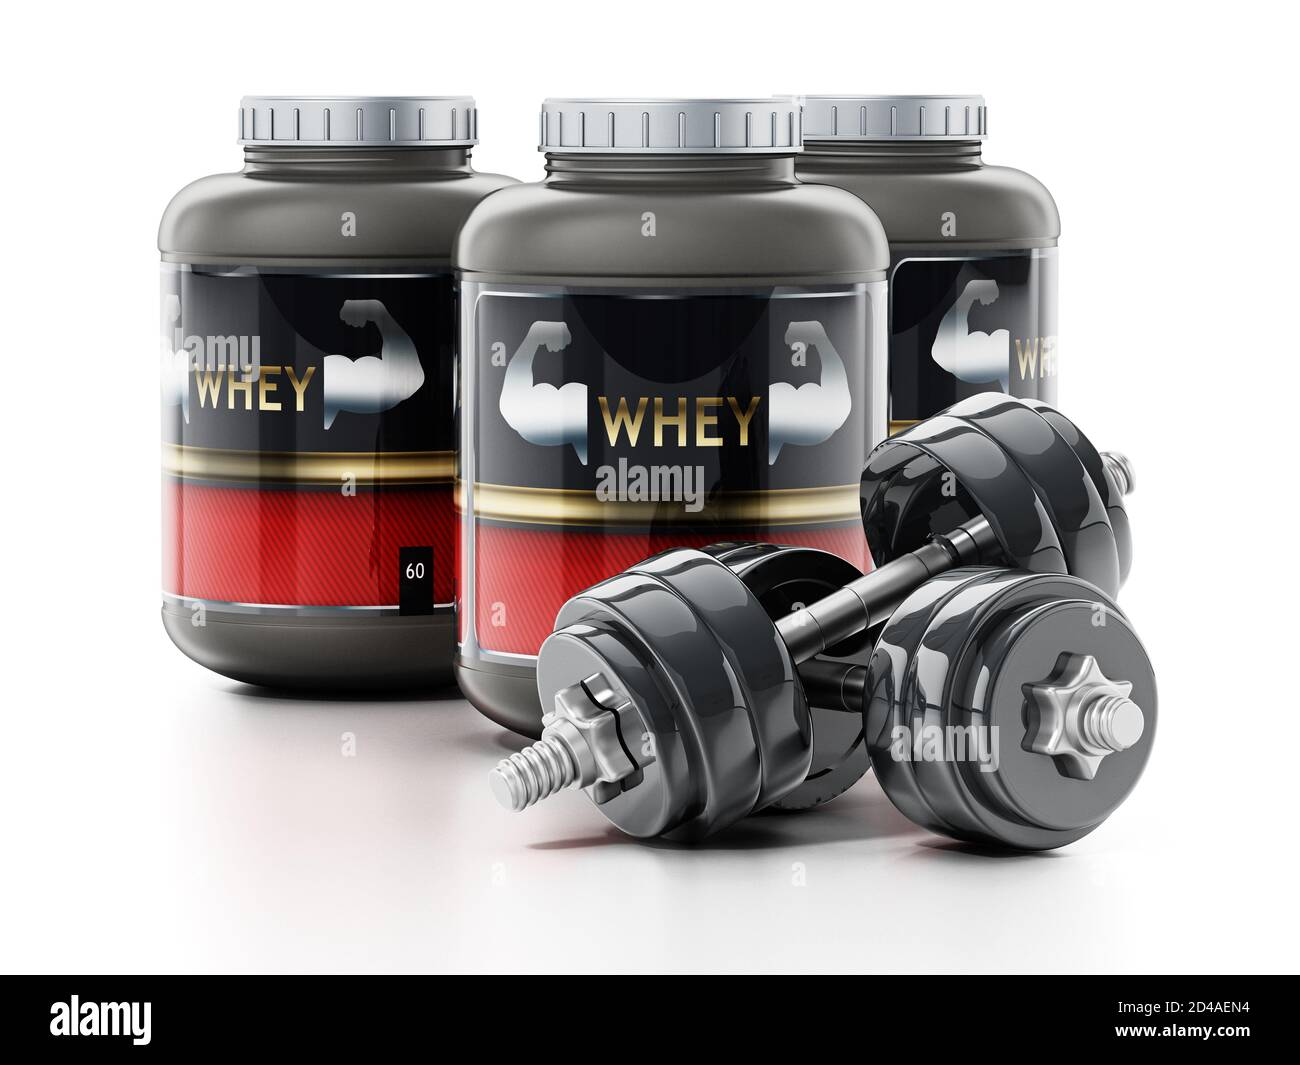
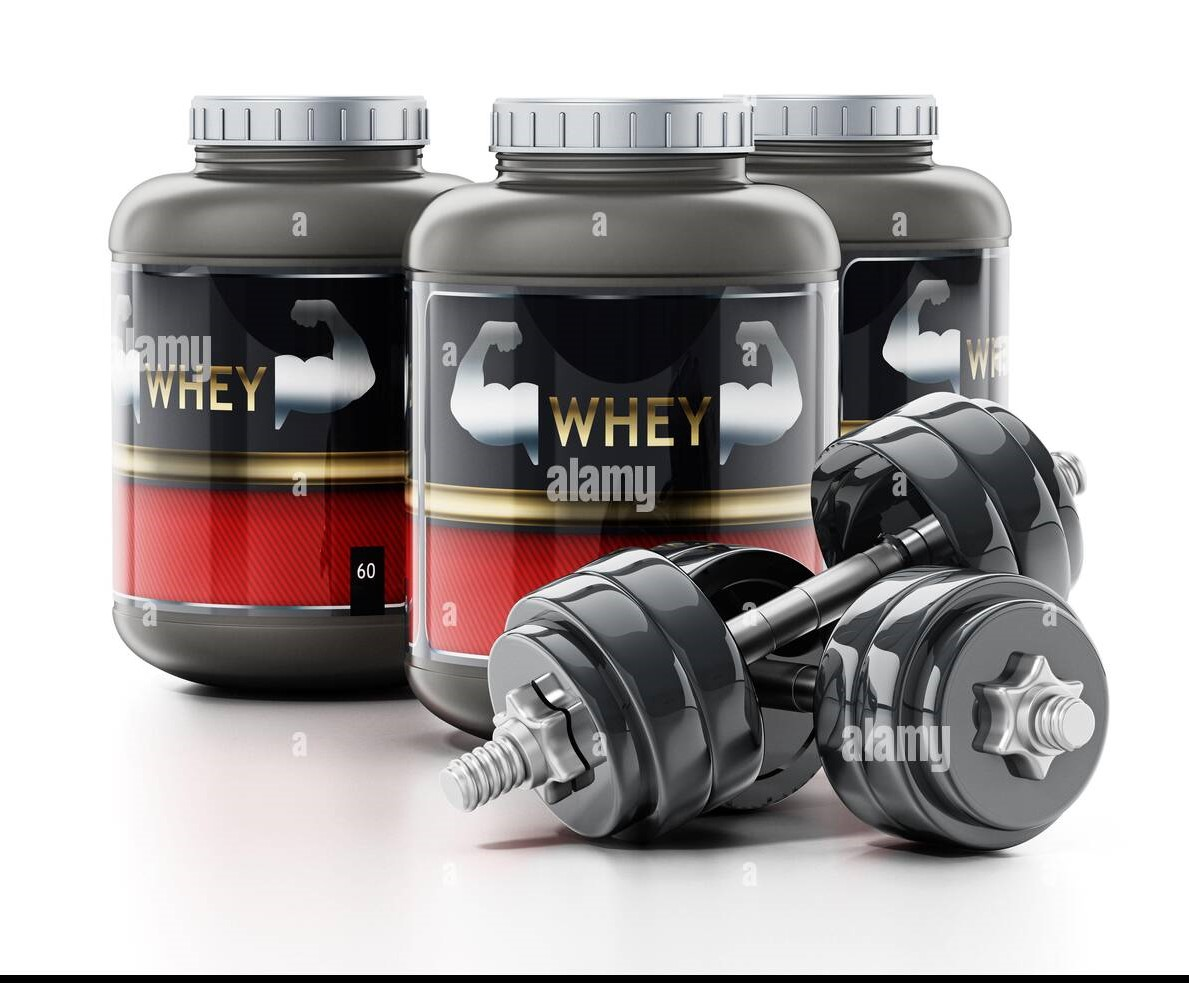
developing products list

diff --git a/Home.html b/Home.html
@@ -77,20 +77,26 @@
             alt="Clothes"
           />
           <h2>Clothes</h2>
-          <button>Purchase now <i class="ri-arrow-right-line"></i></button>
+          <button class="home-btn">
+            <a href="./products.html" target="_blank">Purchase now </a
+            ><i class="ri-arrow-right-line"></i>
+          </button>
         </div>
         <div class="store-item">
-          <img
-            src="https://c8.alamy.com/comp/2D4AEN4/whey-protein-powders-and-dumbells-isolated-on-white-background-3d-illustration-2D4AEN4.jpg"
-            alt="Supplements"
-          />
+          <img src="./img/supplement.jpg" alt="Supplements" />
           <h2>Supplements</h2>
-          <button>Purchase now <i class="ri-arrow-right-line"></i></button>
+          <button class="home-btn">
+            <a href="./products.html" target="_blank">Purchase now </a>
+            <i class="ri-arrow-right-line"></i>
+          </button>
         </div>
         <div class="store-item">
           <img src="./img/welcome-equi.jpg" alt="Equipments" />
           <h2>Equipments</h2>
-          <button>Purchase now <i class="ri-arrow-right-line"></i></button>
+          <button class="home-btn">
+            <a href="./products.html" target="_blank">Purchase now </a>
+            <i class="ri-arrow-right-line"></i>
+          </button>
         </div>
       </div>
     </section>
@@ -142,61 +148,6 @@
         <p>&copy; 2024 GymX | All Rights Reserved</p>
       </div>
     </footer>
-    <script>
-      ScrollReveal().reveal(".section", { delay: 700 });
-      // Create navbar elements
-      const nav = document.createElement("nav");
-      nav.classList.add("nav_main");
-
-      const navLink = document.createElement("a");
-      navLink.href = "Home.html";
-      const navLogo = document.createElement("img");
-      navLogo.src = "./img/logo-nav.png";
-      navLogo.alt = "";
-      navLink.appendChild(navLogo);
-      navLink.appendChild(document.createTextNode("GymX"));
-
-      const navMenu = document.createElement("div");
-      navMenu.classList.add("nav_menu");
-
-      const navList = document.createElement("ul");
-      navList.classList.add("nav_list");
-
-      const navItems = [
-        { href: "#", text: "Home" },
-        { href: "#aboutUS", text: "About Us" },
-        { href: "#Store", text: "Store" },
-        { href: "#contactUs", text: "Contact Us" },
-      ];
-
-      navItems.forEach((item) => {
-        const li = document.createElement("li");
-        li.classList.add("nav_item");
-        const a = document.createElement("a");
-        a.href = item.href;
-        a.textContent = item.text;
-        li.appendChild(a);
-        navList.appendChild(li);
-      });
-
-      const navButton = document.createElement("button");
-      navButton.type = "button";
-      navButton.classList.add("nav_button");
-      const navButtonLink = document.createElement("a");
-      navButtonLink.href = "./Login.html";
-      navButtonLink.target = "_blank";
-      navButtonLink.textContent = "Login";
-      navButton.appendChild(navButtonLink);
-
-      // Assemble navbar
-      navMenu.appendChild(navList);
-      navMenu.appendChild(navButton);
-
-      nav.appendChild(navLink);
-      nav.appendChild(navMenu);
-
-      // Append to body
-      document.body.prepend(nav);
-    </script>
+    <script src="./script/nav.js"></script>
   </body>
 </html>

diff --git a/products.html b/products.html
@@ -1,0 +1,49 @@
+<!DOCTYPE html>
+<html lang="en">
+  <head>
+    <meta charset="UTF-8" />
+    <meta name="viewport" content="width=device-width, initial-scale=1.0" />
+    <title>Products - gymX</title>
+    <link rel="icon" type="image/x-icon" href="./img/favicon.png" />
+    <link rel="stylesheet" href="./CSS/Products.css" />
+    <script src="https://unpkg.com/scrollreveal"></script>
+  </head>
+  <body>
+    <div id="productsContainer"></div>
+    <script src="./script/nav.js"></script>
+    <script>
+      const productsContainer = document.getElementById("productsContainer");
+
+      const productsList = [
+        { clothes: "shorts", rating: "5 *", desciption: "this is short" },
+        { clothes: "shorts", rating: "5 *", desciption: "this is short" },
+        { clothes: "shorts", rating: "5 *", desciption: "this is short" },
+        { clothes: "shorts", rating: "5 *", desciption: "this is short" },
+        { clothes: "shorts", rating: "5 *", desciption: "this is short" },
+        { clothes: "shorts", rating: "5 *", desciption: "this is short" },
+        { clothes: "shorts", rating: "5 *", desciption: "this is short" },
+        { clothes: "shorts", rating: "5 *", desciption: "this is short" },
+      ];
+
+      productsList.forEach((product) => {
+        const productElement = document.createElement("div");
+        productElement.setAttribute("class", "productDiv");
+
+        const productHeading = document.createElement("h2");
+        productHeading.innerHTML = product.clothes;
+        productElement.append(productHeading);
+
+        const pDescription = document.createElement("p");
+        pDescription.innerHTML = product.desciption;
+        productElement.append(pDescription);
+
+        const ratingbtn = document.createElement("button");
+        ratingbtn.setAttribute("class", "rating-btn");
+        ratingbtn.innerHTML = product.rating;
+        productElement.append(ratingbtn);
+
+        productsContainer.append(productElement);
+      });
+    </script>
+  </body>
+</html>

diff --git a/CSS/Products.css b/CSS/Products.css
@@ -1,0 +1,102 @@
+* {
+    padding: 0px;
+    margin: 0px;
+}
+body {
+    background-color: hsl(180, 12%, 8%);
+    color: hsl(180, 4%, 72%);
+    font-family: Arial, sans-serif;
+}
+.nav_main {
+    height: 60px;
+    padding: 10px;
+    /* border: 2px solid red; */
+    display: flex;
+    align-items: center;
+    justify-content: space-between;
+}
+
+.nav_main a img {
+    width: 25px;
+    margin-left: 50px;
+}
+
+.nav_main a {
+    color: hsl(180, 4%, 72%);
+    font-weight: bolder;
+    text-decoration: none;
+    font-size: 19px;
+}
+
+.nav_menu {
+    display: flex;
+    width: 700px;
+    justify-content: space-around;
+    margin-right: 50px;
+}
+
+.nav_menu ul {
+    display: flex;
+    justify-content: center;
+    align-items: center;
+    list-style: none;
+
+}
+
+.nav_menu ul li {
+    margin: 0 30px;
+}
+
+.nav_menu ul li a:hover {
+    color: hsl(79, 63%, 50%);
+}
+
+.nav_button {
+    padding: 10px 30px;
+    background-color: hsl(79, 63%, 50%);
+    width: 120px;
+    border-radius: 10px;
+}
+
+.nav_button a {
+    color: black;
+}
+
+.nav_button:hover {
+    background-color: hsl(79, 44%, 59%);
+    cursor: pointer;
+    transform: scale(1.05);
+}
+#productsContainer{
+    display: flex;
+    justify-content: center;
+    align-items: center;
+    flex-wrap: wrap;
+    padding: 10px;
+    max-width: 90%;
+    margin: 0px auto;
+}
+.productDiv {
+    width: 250px;
+    height: 400px;
+    margin: 20px;
+    transition: transform 0.3s;
+    background-color:hsl(180, 12%, 20%);
+    display: flex;
+    flex-direction: column;
+    /* justify-content: center; */
+    align-items: center;
+    border-radius: 10px;
+}
+
+.productDiv:hover {
+    transform: scale(1.08);
+    cursor: pointer;
+    border: 2px solid wheat;
+}
+.rating-btn{
+    padding: 2px;
+    background-color: green;
+    color: white;
+    width: 50px;
+}

diff --git a/script/nav.js b/script/nav.js
@@ -1,0 +1,54 @@
+ScrollReveal().reveal(".section", { delay: 700 });
+// Create navbar elements
+const nav = document.createElement("nav");
+nav.classList.add("nav_main");
+
+const navLink = document.createElement("a");
+navLink.href = "Home.html";
+const navLogo = document.createElement("img");
+navLogo.src = "./img/logo-nav.png";
+navLogo.alt = "";
+navLink.appendChild(navLogo);
+navLink.appendChild(document.createTextNode("GymX"));
+
+const navMenu = document.createElement("div");
+navMenu.classList.add("nav_menu");
+
+const navList = document.createElement("ul");
+navList.classList.add("nav_list");
+
+const navItems = [
+  { href: "#", text: "Home" },
+  { href: "#aboutUS", text: "About Us" },
+  { href: "#Store", text: "Store" },
+  { href: "#contactUs", text: "Contact Us" },
+];
+
+navItems.forEach((item) => {
+  const li = document.createElement("li");
+  li.classList.add("nav_item");
+  const a = document.createElement("a");
+  a.href = item.href;
+  a.textContent = item.text;
+  li.appendChild(a);
+  navList.appendChild(li);
+});
+
+const navButton = document.createElement("button");
+navButton.type = "button";
+navButton.classList.add("nav_button");
+const navButtonLink = document.createElement("a");
+navButtonLink.href = "./Login.html";
+navButtonLink.target = "_blank";
+navButtonLink.textContent = "Login";
+navButton.appendChild(navButtonLink);
+
+// Assemble navbar
+navMenu.appendChild(navList);
+navMenu.appendChild(navButton);
+
+nav.appendChild(navLink);
+nav.appendChild(navMenu);
+
+// Append to body
+document.body.prepend(nav);

diff --git a/Login.html b/Login.html
@@ -7,11 +7,24 @@
     <link rel="icon" type="image/x-icon" href="./img/favicon.png" />
     <link rel="stylesheet" href="./CSS/Login.css" />
   </head>
+  <style>
+    .errorNode1 {
+      margin-top: 5px;
+      color: white;
+      margin-bottom: 25px;
+    }
+    .errorNode2 {
+      margin-top: 5px;
+      color: white;
+      margin-bottom: 25px;
+    }
+  </style>
   <body>
     <div class="login-container">
       <h2>Login</h2>
-      <form id="loginForm">
+      <form id="loginForm" onsubmit="">
         <input type="email" id="email" name="email" placeholder="Email" />
+        <p class="errorNode1">Email id is required</p>
 
         <input
           type="password"
@@ -19,10 +32,13 @@
           name="password"
           placeholder="Password"
         />
+        <p class="errorNode2">Password is required</p>
 
         <button type="submit">Log In</button>
       </form>
       <p>Don't have an account? <a href="Register.html">Register here</a></p>
     </div>
+
+    <script></script>
   </body>
 </html>

diff --git a/CSS/Home.css b/CSS/Home.css
@@ -172,7 +172,10 @@ body{
   .store-item h2:hover {
     color: hsl(180, 4%, 85%);
   }
-  
+  .home-btn a{
+    text-decoration: none;
+    color: hsl(180, 4%, 95%);
+  }
   button {
     font-size: 1em;
     padding: 15px;
@@ -181,7 +184,7 @@ body{
     background-color: hsl(180, 12%, 25%);
     color: hsl(180, 4%, 95%);
     cursor: pointer;
-    transition: background-color 0.3s ease-in-out, transform 0.3s ease-in-out;
+    transition: background-color 0.3s ease-in-out; transform :0.3s ease-in-out;
   }
   
   button:hover {

diff --git a/CSS/Login.css b/CSS/Login.css
@@ -58,12 +58,11 @@ label:hover {
 input {
     font-size: 1em;
     padding: 15px;
-    margin-bottom: 20px;
     border: 1px solid hsl(180, 12%, 25%);
     border-radius: 5px;
     background-color: hsl(180, 12%, 10%);
     color: hsl(180, 4%, 72%);
-    transition: border-color 0.3s ease-in-out, background-color 0.3s ease-in-out;
+    transition: border-color 0.3s ease-in-out;background-color: 0.3s ease-in-out;
 }
 
 input:focus {
